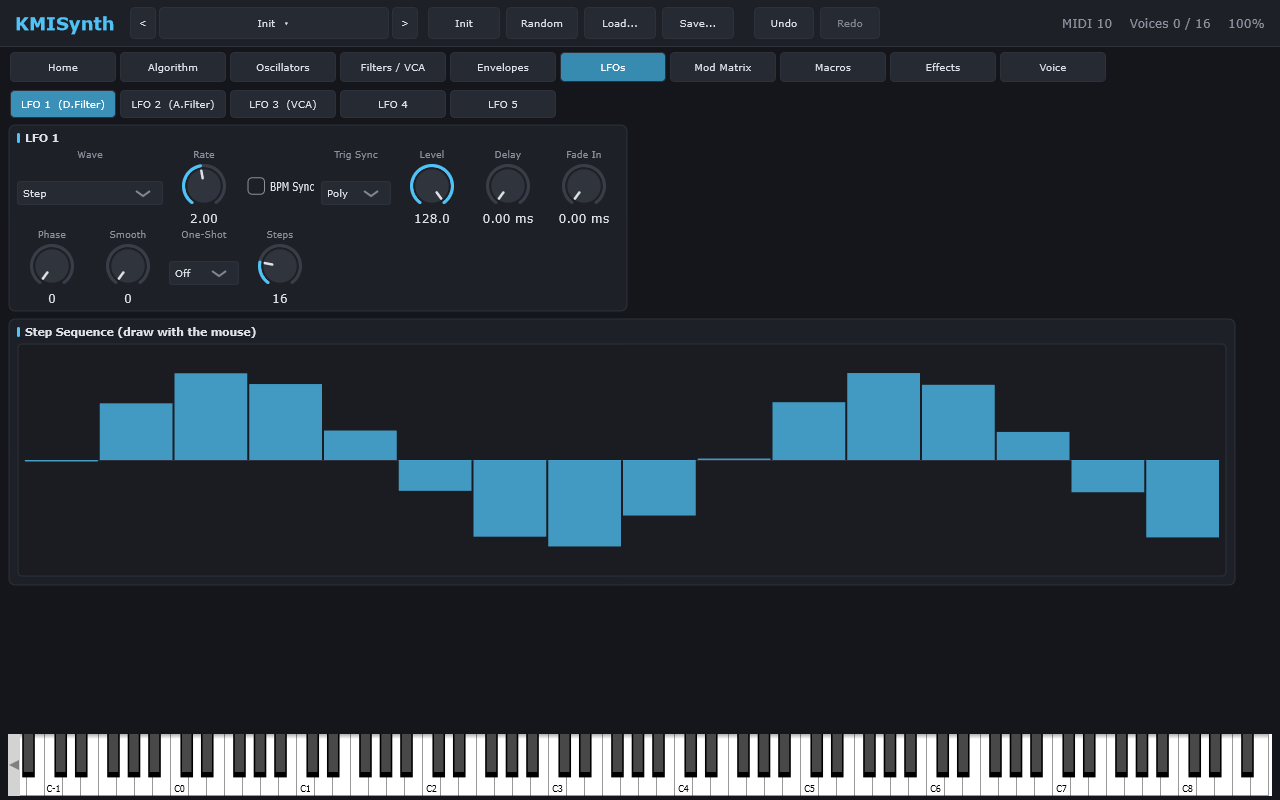
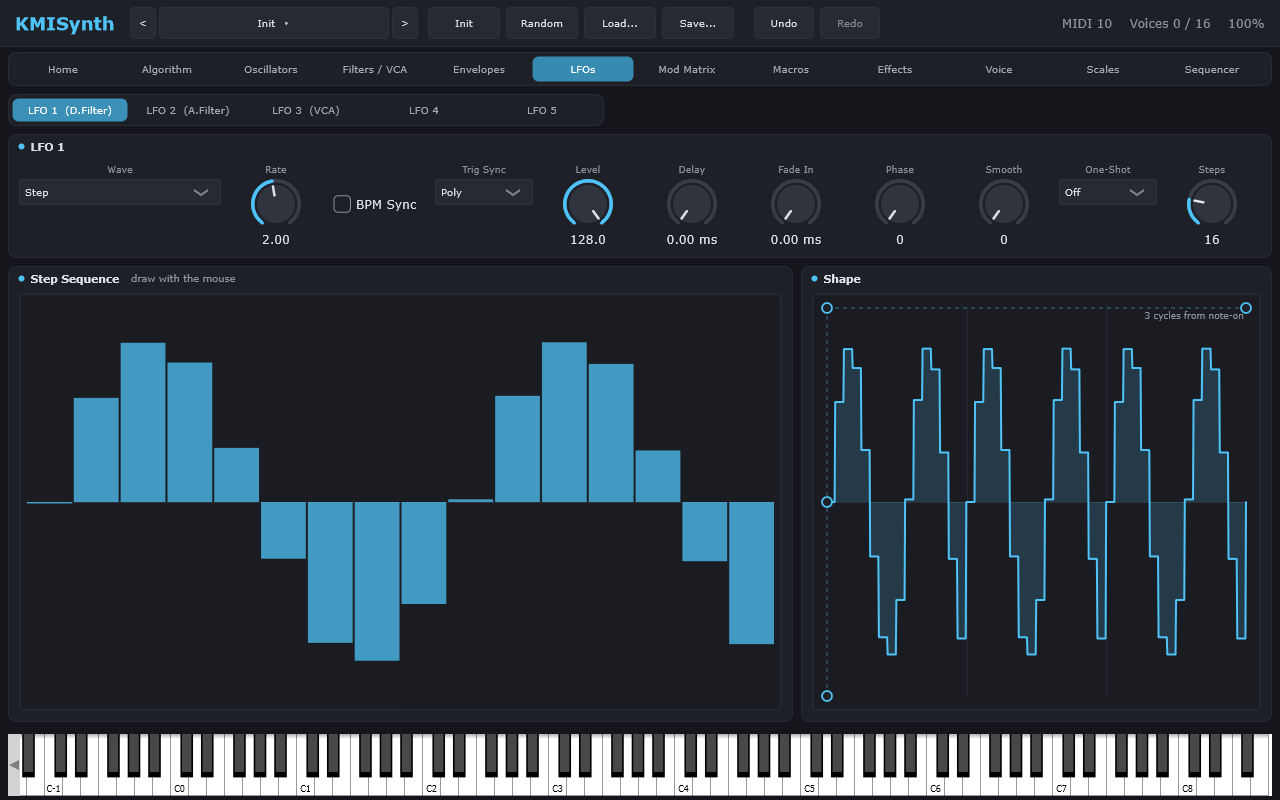
README: screenshots of the redesigned editor
All screenshots retaken; new Filters / VCA and Envelopes shots; captions mention the drag handles,
greyed-out controls, LFO preview and Community patches. Intro now lists AU and macOS.

diff --git a/README.md b/README.md
@@ -1,24 +1,30 @@
 # KMISynth
 
-A hybrid algorithmic polyphonic synthesizer (VST3, Windows). Its architecture follows the ASM Leviasynth: 8 multi-mode oscillators per voice, morphable algorithms, a digital multimode filter feeding a modelled analog 4-pole low-pass, and deep modulation. All content is original. See [docs/REQUIREMENTS.md](docs/REQUIREMENTS.md).
+A hybrid algorithmic polyphonic synthesizer (VST3, Audio Unit and Standalone, for Windows and macOS). Its architecture follows the ASM Leviasynth: 8 multi-mode oscillators per voice, morphable algorithms, a digital multimode filter feeding a modelled analog 4-pole low-pass, and deep modulation. All content is original. See [docs/REQUIREMENTS.md](docs/REQUIREMENTS.md).
 
 ![KMISynth: the Home page](docs/images/home.png)
 
 Every preset has an MP3 demo: see the Listen column in the [preset table](#status-phase-1-complete-engine-effects-custom-ui-phase-2-under-way).
 
 <details>
-<summary><b>More screenshots</b> (Algorithm, Oscillators, LFOs, Effects, Voice, Scales, Sequencer, preset browser)</summary>
+<summary><b>More screenshots</b> (Algorithm, Oscillators, Filters / VCA, Envelopes, LFOs, Effects, Voice, Scales, Sequencer, preset browser)</summary>
 
 **Algorithm:** the carrier/modulator diagram and the clickable 8×8 matrix.
 ![Algorithm page](docs/images/algorithm.png)
 
-**Oscillators:** the waveform panel shows Wave Scan's live crossfade; Load WAV fills the User slots.
+**Oscillators:** the waveform panel shows Wave Scan's live crossfade; Load WAV fills the User slots. Drag the handles on the envelope to shape it. Controls that do nothing in the current setup are greyed out.
 ![Oscillators page](docs/images/oscillators.png)
 
-**LFOs:** a Step LFO's sequence, drawn with the mouse.
+**Filters / VCA:** the digital and analog filters and the VCA, with their three envelopes editable alongside.
+![Filters / VCA page](docs/images/filters.png)
+
+**Envelopes:** a large graph with drag handles for delay, attack and level, hold, decay and sustain, and release.
+![Envelopes page](docs/images/envelopes.png)
+
+**LFOs:** a Step LFO's sequence, drawn with the mouse, beside a preview of the LFO from note-on with handles for level, phase, delay and fade-in.
 ![LFOs page](docs/images/lfos.png)
 
-**Effects:** numbered in signal order: Pre-FX insert, Delay, Reverb, Post-FX insert.
+**Effects:** in signal order (Pre-FX insert, Delay, Reverb, Post-FX insert) above the output scope.
 ![Effects page](docs/images/effects.png)
 
 **Voice:** polyphony, glide, Osc Stereo, Panner, MPE, character, Voice Mod and the arpeggiator.
@@ -30,7 +36,7 @@ Every preset has an MP3 demo: see the Listen column in the [preset table](#statu
 **Sequencer:** two polyphonic note tracks in a piano roll, plus 8 macro lanes; per-step probability, multi-trigger and drift.
 ![Sequencer page](docs/images/sequencer.png)
 
-**Preset browser:** search, tags and folders.
+**Preset browser:** search, tags and folders; **Community...** downloads the community patch library.
 ![Preset browser](docs/images/preset-browser.png)
 
 </details>
